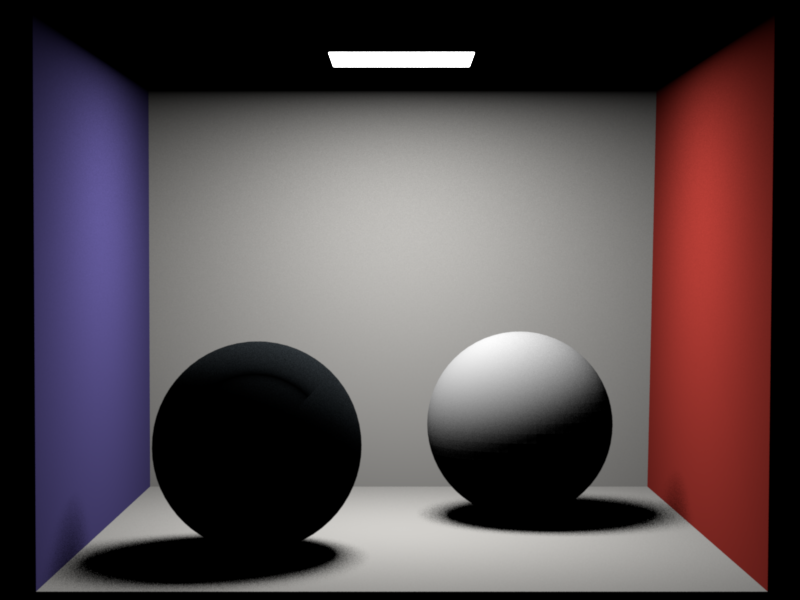
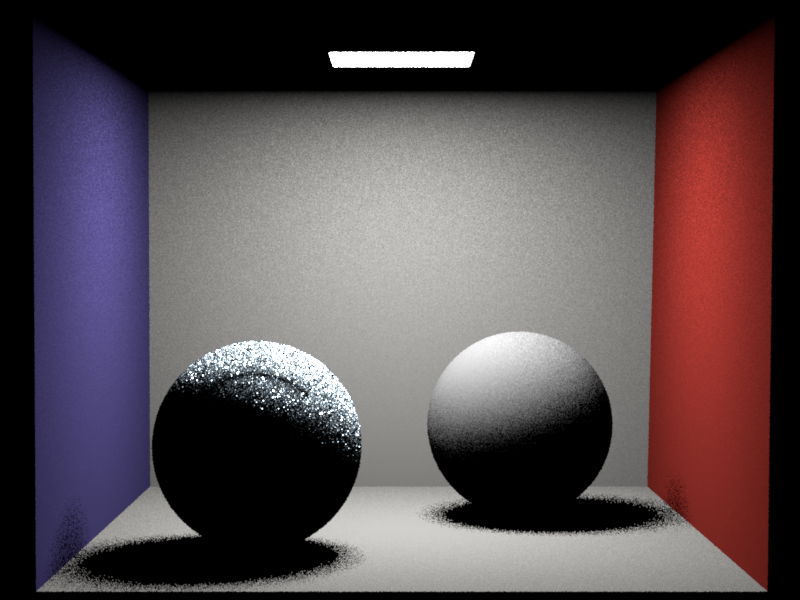
Added pdf to subsurface NES on whitted

diff --git a/src/whitted.cpp b/src/whitted.cpp
@@ -76,7 +76,7 @@ public:
         if (!valid)
             return Color3f(0.0f);
 
-        return Pth::nextEventEstimation(scene, sampler, state, bsdfQuery);
+        return Pth::nextEventEstimation(scene, sampler, state, bsdfQuery) / pointPdf;
     }
 
     Color3f Li (const Scene *scene, Sampler *sampler,
